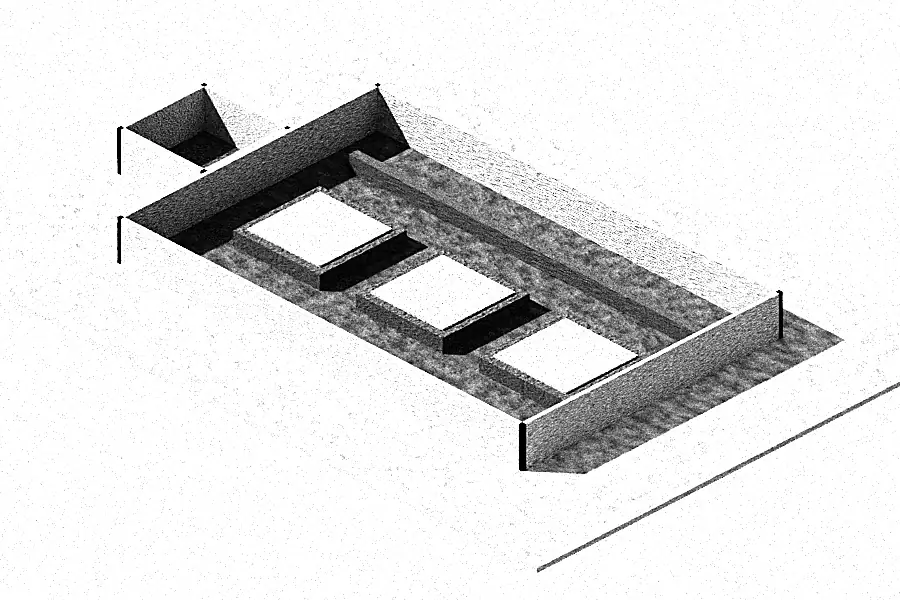
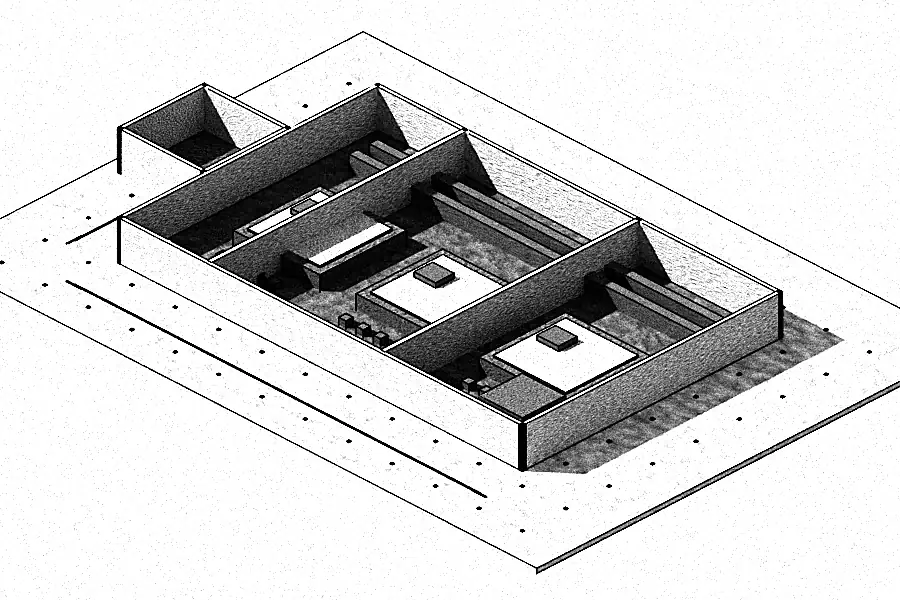
r368: plate renders v2 (ink outlines, dimension strings, richer lab); quieter CTA registry strip

diff --git a/frontend/src/styles/landing/colleges.css b/frontend/src/styles/landing/colleges.css
@@ -72,3 +72,10 @@
   margin-block: -14px;
 }
 
+
+/* r368 slice 18 (CTA): the reference's CTA has no registry row; keep it as a quiet hairline footnote on desktop
+   (lighter rule, tighter spacing, muted text) so it stops competing with the contact panel. */
+@media (min-width: 992px) {
+  .cg-strip { margin-block-start: var(--sp-5); padding-block-start: var(--sp-3); border-block-start-color: var(--rule); }
+  .cg-strip-label, .cg-strip-text { opacity: 0.7; }
+}

diff --git a/scripts/art/blender/plate.py b/scripts/art/blender/plate.py
@@ -51,7 +51,27 @@ elif kind=='lab':
     room(-14,-9,28,18,2.6)
     for i in range(3):
         box(-11+i*8.5,-5+i*8.5,-4,2,0,1.0,dk); box(-10.5+i*8.5,-5.5+i*8.5,-3.5,1.5,1.0,1.1,conc)
-    box(-12,12,5,5.6,0,1.1,dk); room(-20,-3,6,6,2.6)
+        for j in range(4): box(-10.6+i*8.5+j*1.2,-10.1+i*8.5+j*1.2,-5.6,-5.1,0,.5,dk)
+        box(-10+i*8.5,-8.5+i*8.5,-1,0.3,1.1,1.4,dk)
+    box(-12,12,5,5.6,0,1.1,dk); box(-12,12,6.4,7,0,1.1,dk); box(-8,-7.7,-8.8,9,0,2.6,conc); box(4,4.3,-8.8,9,0,2.6,conc)
+    room(-20,-3,6,6,2.6); box(10,13,-8,-5,0,2.2,dk)
+def dim(x0,y0,x1,y1):  # dimension string with end ticks
+    box(min(x0,x1),max(x0,x1)+.08,min(y0,y1),max(y0,y1)+.08,0,.03,dk)
+    for (x,y) in ((x0,y0),(x1,y1)): box(x-.5 if y0==y1 else x-.04,x+.5 if y0==y1 else x+.04,y-.04 if y0==y1 else y-.5,y+.04 if y0==y1 else y+.5,0,.03,dk)
+def grid(x0,x1,y0,y1,st=3):
+    for gx in range(int(x0),int(x1)+1,st):
+        for gy in range(int(y0),int(y1)+1,st): box(gx-.08,gx+.08,gy-.08,gy+.08,0,.03,dk)
+if kind=='lecture': dim(-14,-12,14,-12); dim(-17,-9,-17,9); grid(-18,18,-13,13)
+if kind=='library': dim(-15,-13,15,-13); dim(-23,-10,-23,10); grid(-18,18,-13,13)
+if kind=='exam': dim(-13,-12,13,-12); dim(-17,-9,-17,9); grid(-18,18,-13,13)
+if kind=='admin': dim(-16,-11,16,-11); dim(-19,-8,-19,8); grid(-18,18,-13,13)
+if kind=='lab': dim(-14,-12,14,-12); dim(-17,-9,-17,9); grid(-18,18,-13,13)
+if kind=='campus': dim(-18,-15,20,-15); grid(-20,20,-14,14,4)
+sc.render.use_freestyle=True; sc.render.line_thickness_mode='ABSOLUTE'; sc.render.line_thickness=1.1
+vl=bpy.context.view_layer; vl.use_freestyle=True
+ls=vl.freestyle_settings.linesets.new('ink') if not vl.freestyle_settings.linesets else vl.freestyle_settings.linesets[0]
+ls.linestyle=bpy.data.linestyles.new('ls'); ls.select_silhouette=True; ls.select_border=True; ls.select_crease=True
+ls.linestyle.color=(0.02,0.02,0.02); ls.linestyle.thickness=1.3
 bpy.ops.object.light_add(type='SUN'); s=bpy.context.object; s.rotation_euler=(math.radians(50),0,math.radians(-50)); s.data.energy=5; s.data.angle=math.radians(1.2)
 bpy.ops.object.camera_add(); c=bpy.context.object
 d=Vector((1,-1,.85)).normalized()*60; c.location=d; c.rotation_euler=(-d).to_track_quat('-Z','Y').to_euler()

diff --git a/docs/redesign/r368/LEDGER.md b/docs/redesign/r368/LEDGER.md
@@ -153,3 +153,4 @@ NEXT: origin/main sync ~9:50pm; remaining gaps 06 layout, hero photo look, no-co
 - r368 perf (after hero v2, 10:35): p50 16.7ms, 8 frames >50ms, longtasks 0.58s (mobile unchanged/better). NEXT: Blender iso plates for 06/07 (same scripts/art/blender pipeline), then CTA/registry weight
 - r368 06 plates: Blender iso massing renders (plate.py) replace the svg plan plates on the platform layer (desktop), multiply/screen blend, light+dark verified; NEXT: 07 plates (.wy-plates still svg plans), registry strip weight
 - r368 07 plates: campus/admin/lab Blender renders via PlanPlate src override; 06 aux plates eager-loaded (no late pop-in). light+dark verified. NEXT: registry strip weight, remaining no-reference slices
+- r368 plates v2: freestyle ink outlines, dimension strings, grid dots, richer lab (plate.py); CTA registry strip quieted (desktop). NEXT: hourly sync, slices w/o corpus ref
